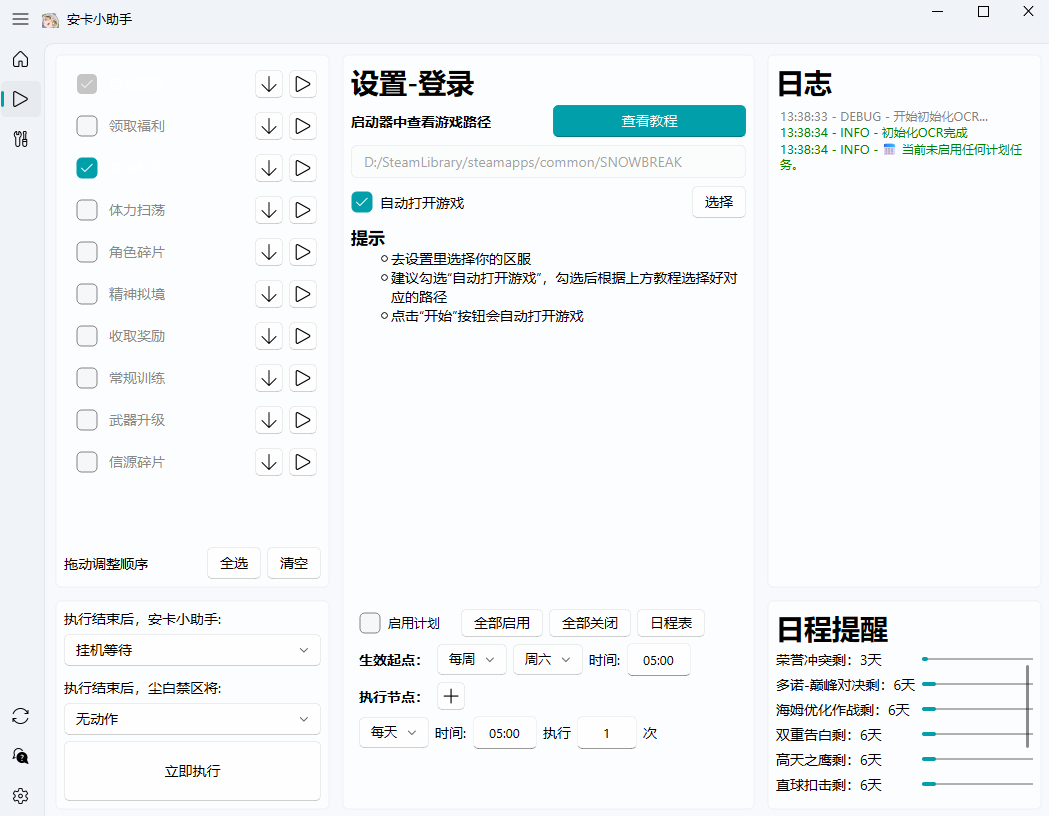
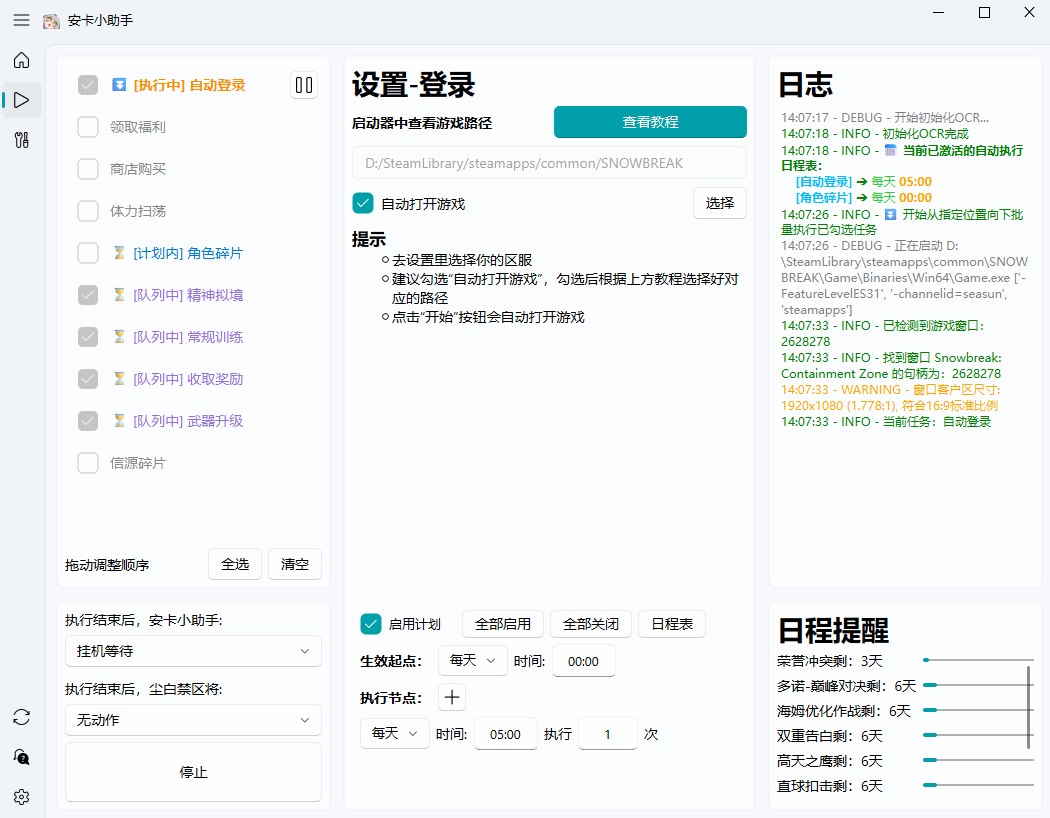
fix dark theme

diff --git a/app/view/daily_view.py b/app/view/daily_view.py
@@ -30,11 +30,25 @@ from qfluentwidgets import (
     TitleLabel,
     ToolButton,
     TextEdit,
+    isDarkTheme,
 )
 
 
 class TaskListView(ListWidget):
     orderChanged = Signal(list)
+
+    def __init__(self, parent=None):
+        super().__init__(parent)
+        self.setDragDropMode(QAbstractItemView.DragDropMode.InternalMove)
+        self.setDefaultDropAction(Qt.DropAction.MoveAction)
+        # 【修复】：追加 hover 和 selected 的透明属性
+        self.setStyleSheet(
+            "TaskListView { background: transparent; border: none; outline: none; }"
+            "TaskListView::item { background: transparent; }"
+            "TaskListView::item:hover { background: transparent; }"
+            "TaskListView::item:selected { background: transparent; }"
+        )
+        self.model().rowsMoved.connect(self._emit_order_changed)
 
     def __init__(self, parent=None):
         super().__init__(parent)
@@ -280,12 +294,11 @@ class TaskItemWidget(QWidget):
 
             # 颜色体系：执行中一律橙黄，队列中一律紫灰
             colors = {
-                'idle': "",
                 'running_queue': "#FF8C00",
                 'running_solo': "#FF8C00",
                 'running_scheduled': "#FF8C00",
                 'completed': "#107C10",
-                'scheduled': "#00BFFF",
+                'scheduled': "#0078D4",  # 【修复】：调深了蓝色，大幅增强在 Light 模式下的对比度
                 'queued': "#9370DB"
             }
 
@@ -330,9 +343,13 @@ class TaskItemWidget(QWidget):
                 prefix = "⏳ " if self._is_non_chinese_ui else "⏳ [队列中] "
                 display_text = f"{prefix}{self._original_text}"
 
-            # 只有未勾选且非强制任务时，才将文字变灰。登录任务的字永不变灰（只灰勾选框）！
-            if state == 'idle' and not is_enabled and not self.is_mandatory:
-                color = "#888888"
+            # 【核心修复】：闲置状态的颜色显式设定
+            if state == 'idle':
+                if not is_enabled and not self.is_mandatory:
+                    color = "#888888" # 未勾选一律变灰
+                else:
+                    # 已勾选正常状态下显式指定黑白，强行拦截 QListWidget 在 Light 模式下把字染白的隐形 Bug
+                    color = "white" if isDarkTheme() else "black"
 
             self.label.setText(display_text)
             self.label.setStyleSheet(f"color: {color};" if color else "")
